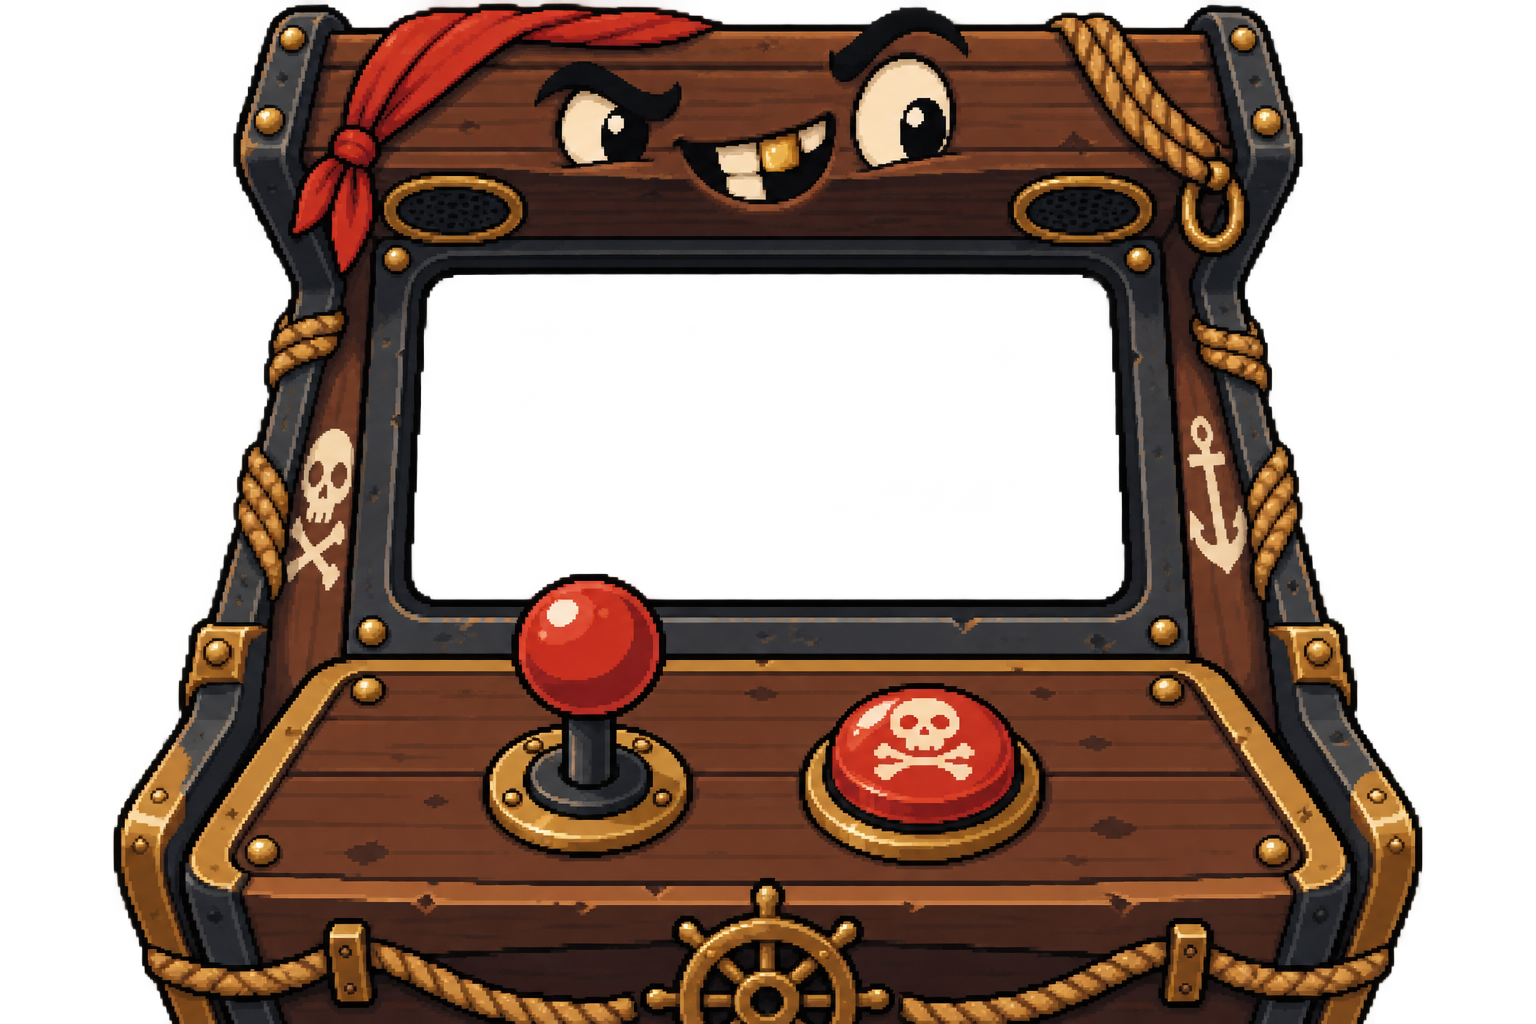
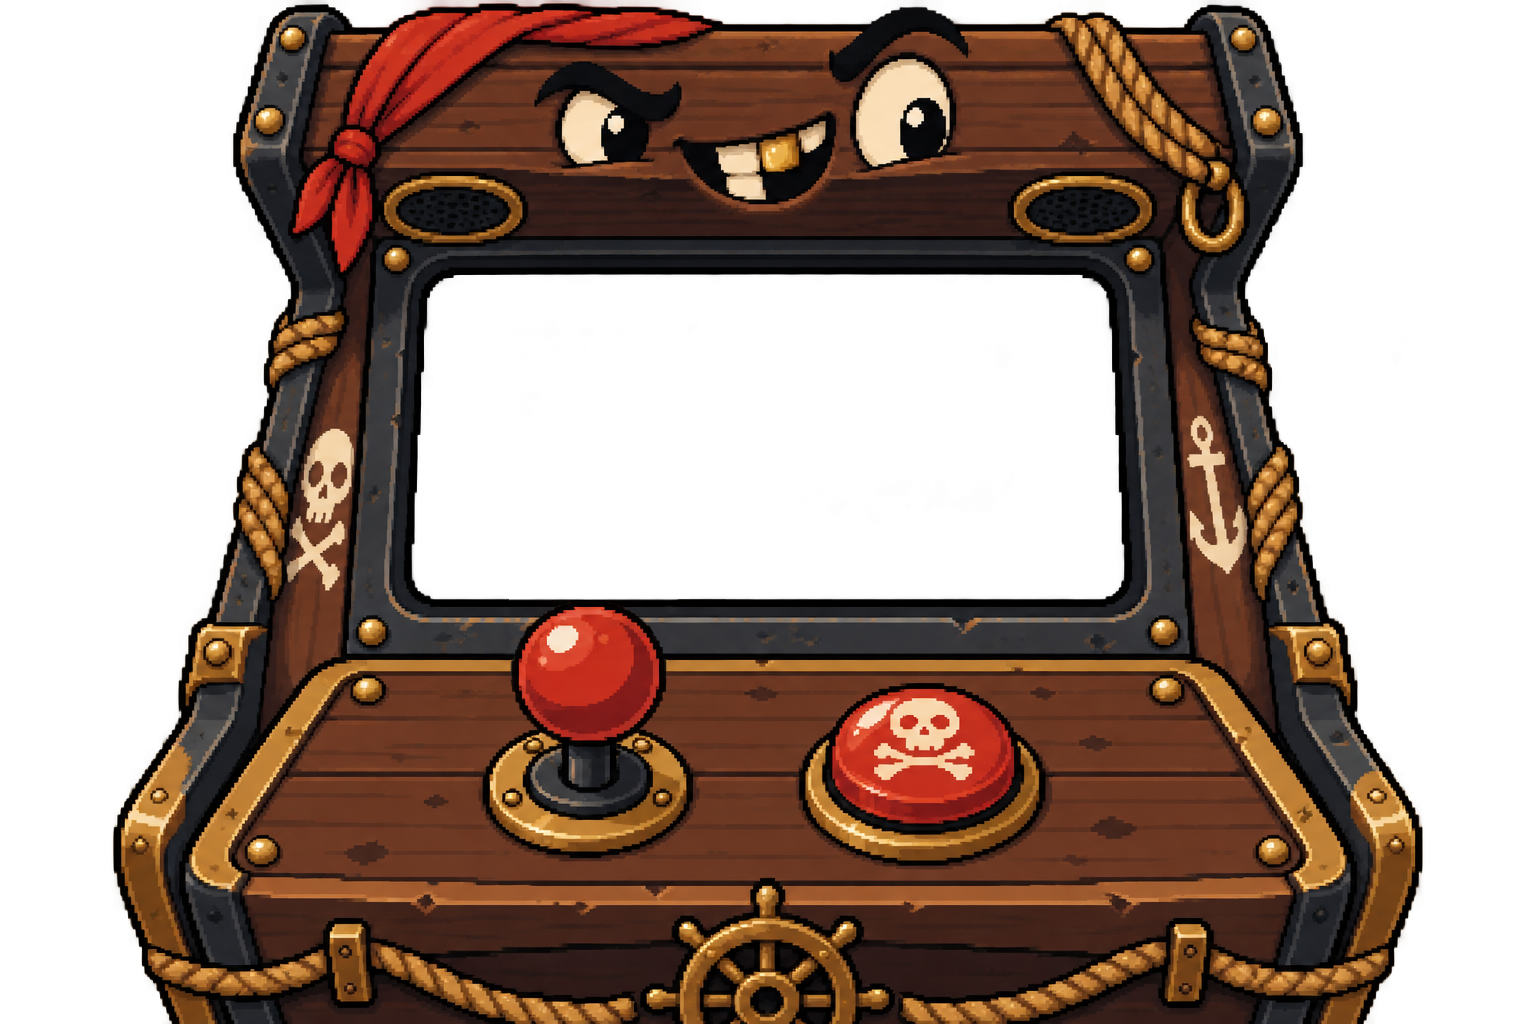
Правки арканоида

Changed region(s): [[0.3125, 0.5625, 0.4375, 0.7812], [0.3125, 0.0, 0.4062, 0.0312]]

diff --git a/src/features/arkanoid/ui/Arkanoid.css b/src/features/arkanoid/ui/Arkanoid.css
@@ -2,7 +2,8 @@
   position: fixed;
   inset: 0;
   overflow: hidden;
-  background: #201829;
+  background: #382316 url('@/shared/assets/games/arkanoid/pirate-shore-environment.png') center /
+    cover no-repeat;
 }
 
 .arkanoid__cabinet {
@@ -20,6 +21,8 @@
 }
 
 .arkanoid__cabinet-image {
+  position: relative;
+  z-index: 2;
   display: block;
   width: 100%;
   height: 100%;
@@ -38,7 +41,7 @@
   padding: 0;
   overflow: hidden;
   border: 0;
-  border-radius: var(--arkanoid-screen-radius);
+  border-radius: 0;
   background: transparent;
   box-shadow: none;
   touch-action: none;
@@ -47,7 +50,7 @@
 .arkanoid__world {
   position: absolute;
   z-index: 1;
-  top: 50%;
+  top: 47%;
   left: 50%;
   width: var(--arkanoid-world-width);
   height: var(--arkanoid-world-height);
@@ -76,14 +79,16 @@
 
   gap: 12px;
 
-  background: rgba(5, 8, 13, 0.78);
-  color: #ffffff;
+  background: rgba(24, 15, 10, 0.84);
+  color: #fff0cb;
   text-align: center;
 }
 
 .arkanoid__overlay h2 {
   margin: 0;
   font-size: 30px;
+  color: #ffe099;
+  text-shadow: 2px 2px 0 #713524;
 }
 
 .arkanoid__overlay p {
@@ -92,22 +97,41 @@
 }
 
 .arkanoid__overlay button {
-  padding: 11px 24px;
-
-  border: 0;
-  border-radius: 10px;
-
-  background: #eb6c9a;
-  color: #ffffff;
-
+  min-height: 48px;
+  max-width: calc(100% - 40px);
+  padding: 12px 24px;
+  border: 3px solid #edc575;
+  border-radius: 4px;
+  background: #843b27;
+  color: #fff0cb;
+  box-shadow:
+    6px 6px 0 rgba(24, 12, 7, 0.65),
+    inset 0 0 0 2px #b7693a;
+  font-family: inherit;
   font-size: 16px;
-  font-weight: 700;
-
+  font-weight: 800;
+  text-shadow: 2px 2px 0 #432115;
   cursor: pointer;
+  transition:
+    background 120ms ease,
+    transform 120ms ease,
+    box-shadow 120ms ease;
 }
 
-.arkanoid__overlay button:hover {
-  filter: brightness(1.05);
+.arkanoid__overlay button:hover:not(:disabled) {
+  background: #a44b2e;
+}
+
+.arkanoid__overlay button:focus-visible {
+  outline: 3px solid #fff1bd;
+  outline-offset: 5px;
+}
+
+.arkanoid__overlay button:active:not(:disabled) {
+  transform: translate(3px, 3px);
+  box-shadow:
+    3px 3px 0 rgba(24, 12, 7, 0.65),
+    inset 0 0 0 2px #b7693a;
 }
 
 .arkanoid__overlay--ready {
@@ -116,9 +140,13 @@
 
 .arkanoid__overlay--ready p {
   padding: 12px 20px;
-  border-radius: 10px;
-  background: rgba(5, 8, 13, 0.72);
-  color: #ffffff;
+  border: 3px solid #c79b52;
+  border-radius: 4px;
+  background: rgba(45, 27, 17, 0.94);
+  box-shadow:
+    6px 6px 0 rgba(24, 12, 7, 0.5),
+    inset 0 0 0 2px #715032;
+  color: #fff0cb;
   font-size: 18px;
   font-weight: 700;
 }
@@ -206,5 +234,7 @@
 
 .arkanoid__overlay button:disabled {
   opacity: 0.6;
-  cursor: default;
+  cursor: not-allowed;
+  background: #514235;
+  text-shadow: none;
 }

diff --git a/src/app/gameRegistry.ts b/src/app/gameRegistry.ts
@@ -21,7 +21,7 @@ import islandMapImage from '@/shared/assets/features/island-map/tropical-island-
 import robotMazeGameBackground from '@/shared/assets/games/robot-maze/background.png'
 import findAPairBackground from '@/shared/assets/games/find-a-pair/findapairbackground.png'
 import fishingScene from '@/shared/assets/games/fishing/background.png'
-import raccoonArcadeBackground from '@/shared/assets/games/arkanoid/raccoon-arcade-background.png'
+import pirateShoreEnvironment from '@/shared/assets/games/arkanoid/pirate-shore-environment.png'
 import locationFootstepsSound from '@/shared/assets/common/audio/location-footsteps.ogg'
 import libraryBackground from '@/shared/assets/locations/tourist/library.png'
 import wildTotemCamp from '@/shared/assets/locations/wild/totem-camp.png'
@@ -211,7 +211,7 @@ export const games: GameDefinition[] = [
     target: 'все кирпичи',
     mapPosition: { left: '50%', top: '30%' },
     pageClassName: 'arkanoid-page',
-    backgroundImage: raccoonArcadeBackground,
+    backgroundImage: pirateShoreEnvironment,
     ...locationTransition,
     Screen: Arkanoid,
   },

diff --git a/src/features/location-navigation/model/locations.ts b/src/features/location-navigation/model/locations.ts
@@ -214,13 +214,6 @@ export const locations: Record<LocationId, LocationDefinition> = {
         cursor: 'projected-forward',
         action: { type: 'game', gameId: 'fruit-basket' },
       },
-      {
-        id: 'arkanoid',
-        label: 'Арканоид',
-        area: area(60, 15, 21, 73),
-        cursor: 'projected-forward',
-        action: { type: 'game', gameId: 'arkanoid' },
-      },
     ],
   },
   'wild-beach': {
@@ -295,6 +288,13 @@ export const locations: Record<LocationId, LocationDefinition> = {
         area: area(3, 43, 85, 52),
         cursor: 'hand-grab',
         action: { type: 'game', gameId: 'robot-maze' },
+      },
+      {
+        id: 'arkanoid',
+        label: 'Сыграть в «Арканоид»',
+        area: area(77, 30.5, 11, 30),
+        cursor: 'projected-forward',
+        action: { type: 'game', gameId: 'arkanoid' },
       },
     ],
   },

diff --git a/src/features/arkanoid/ui/Arkanoid.tsx b/src/features/arkanoid/ui/Arkanoid.tsx
@@ -421,8 +421,13 @@ export function Arkanoid({ onComplete }: Props) {
     const stage = stageRef.current
     if (!stage) return
     const observer = new ResizeObserver(([entry]) => {
+      // Preserve object/text proportions and leave room above the lower cabinet trim.
+      // The sea background fills the stage independently of this playable world.
       setStageScale(
-        Math.min(entry.contentRect.width / CANVAS_WIDTH, entry.contentRect.height / CANVAS_HEIGHT),
+        Math.min(
+          entry.contentRect.width / CANVAS_WIDTH,
+          (entry.contentRect.height * 0.86) / CANVAS_HEIGHT,
+        ),
       )
     })
     observer.observe(stage)

diff --git a/src/features/arkanoid/model/layout.ts b/src/features/arkanoid/model/layout.ts
@@ -37,10 +37,10 @@ export const ARKANOID_LAYOUT: ArkanoidLayout = {
   },
 
   screen: {
-    x: 420,
-    y: 280,
-    width: 696,
-    height: 316,
+    x: 404,
+    y: 264,
+    width: 728,
+    height: 344,
     radius: 24,
   },
 
